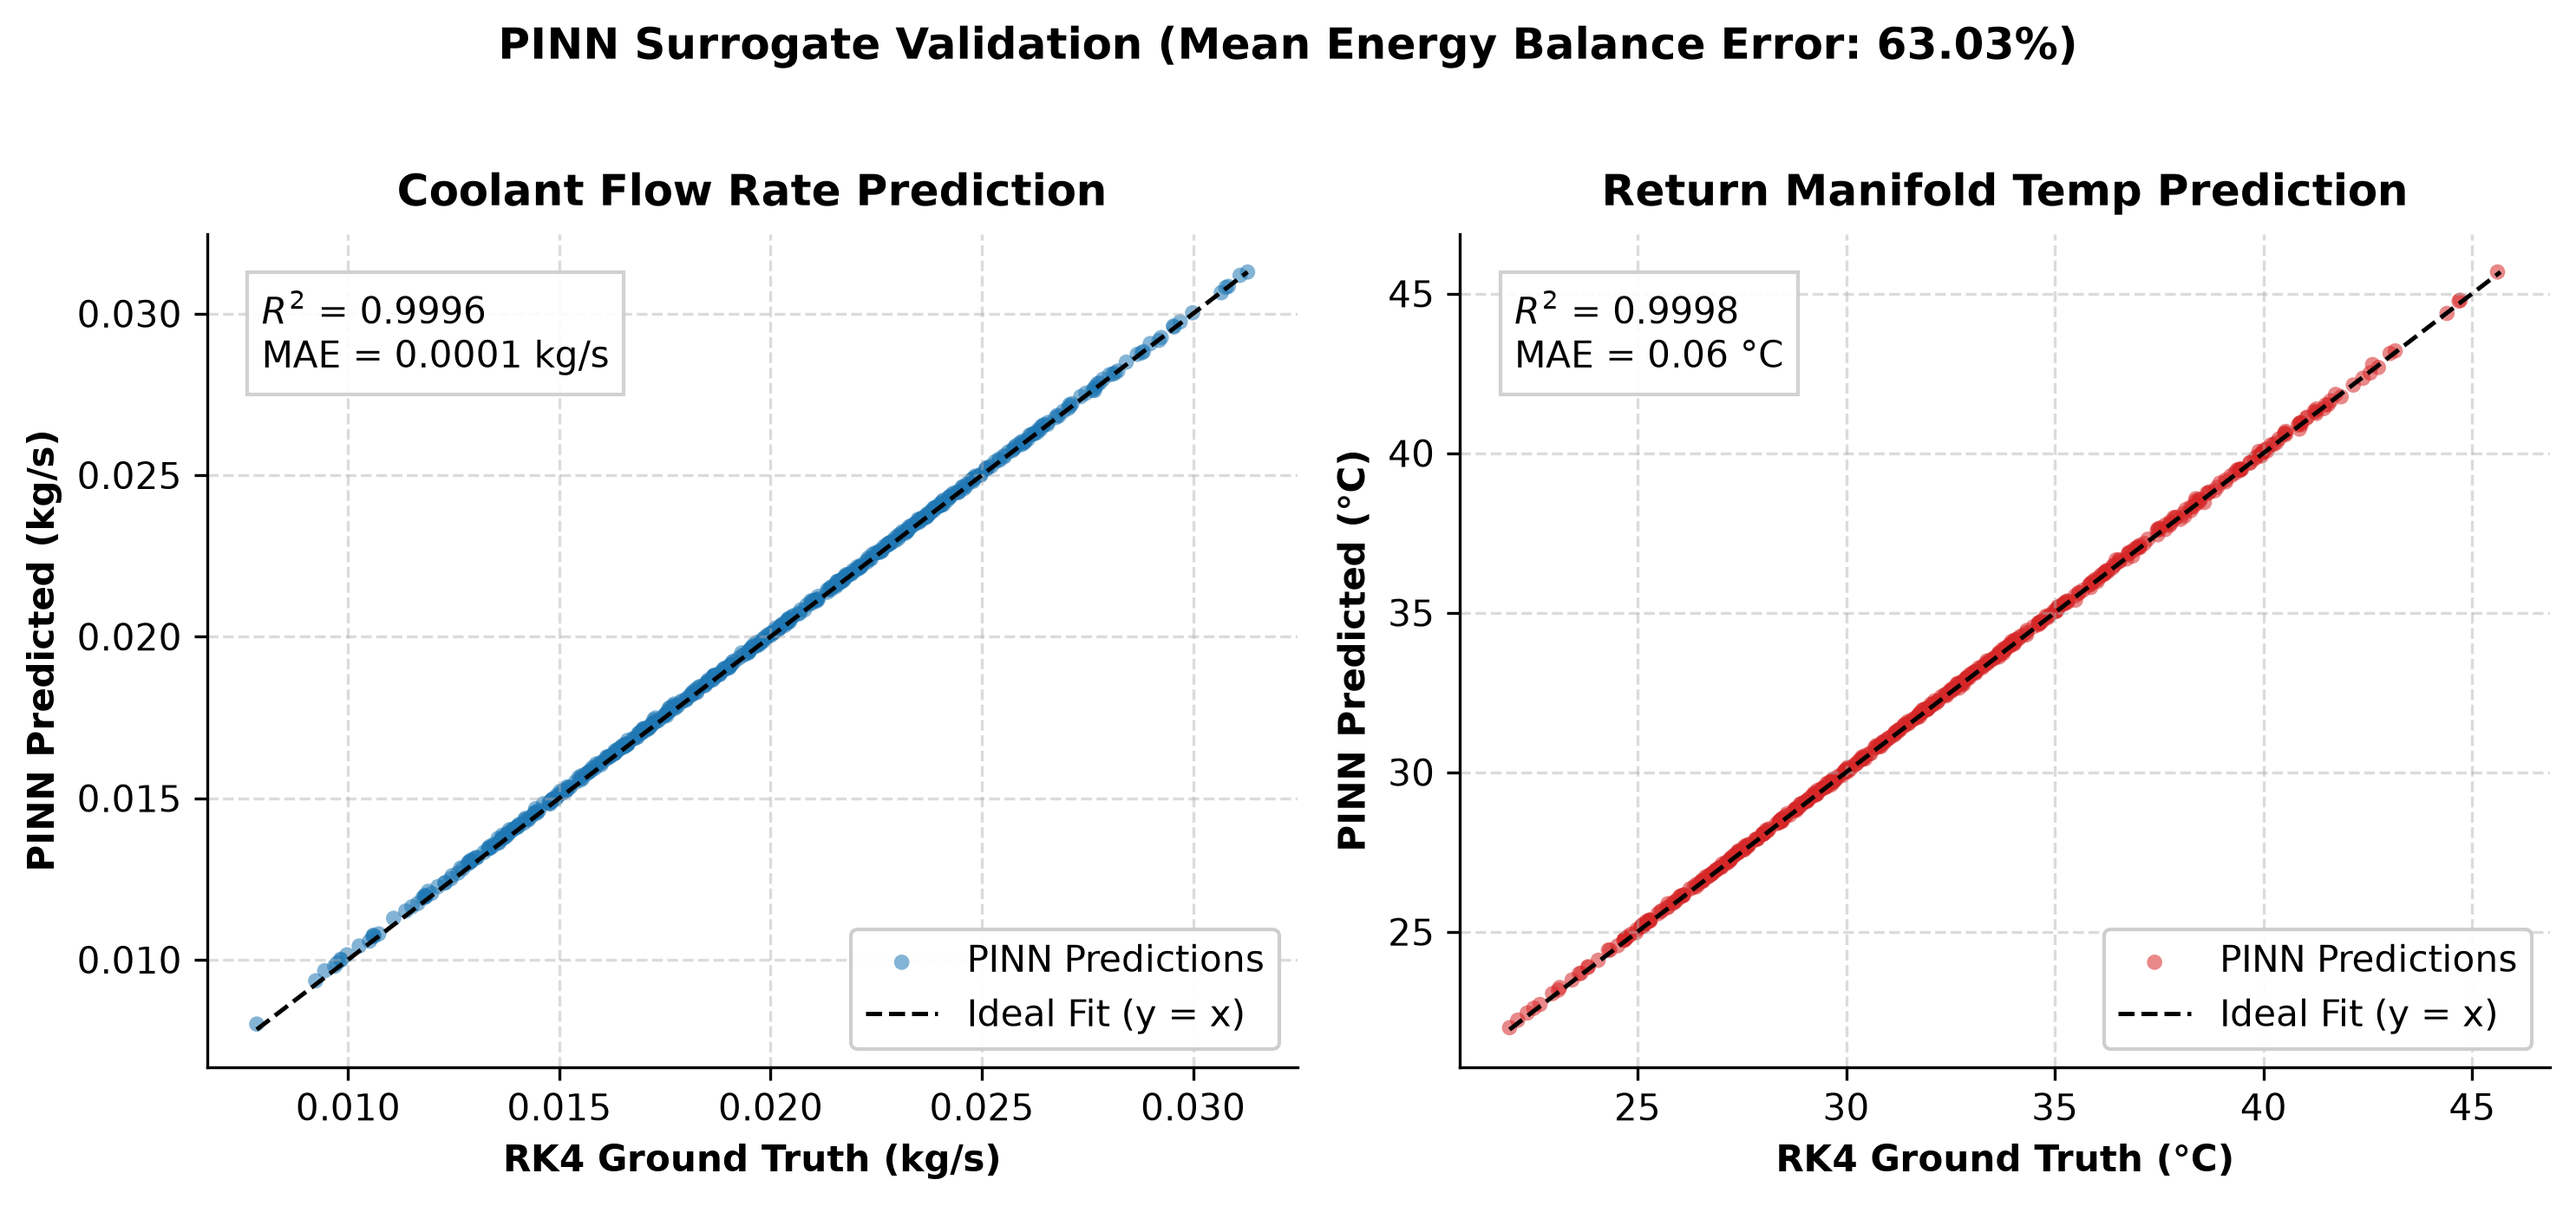
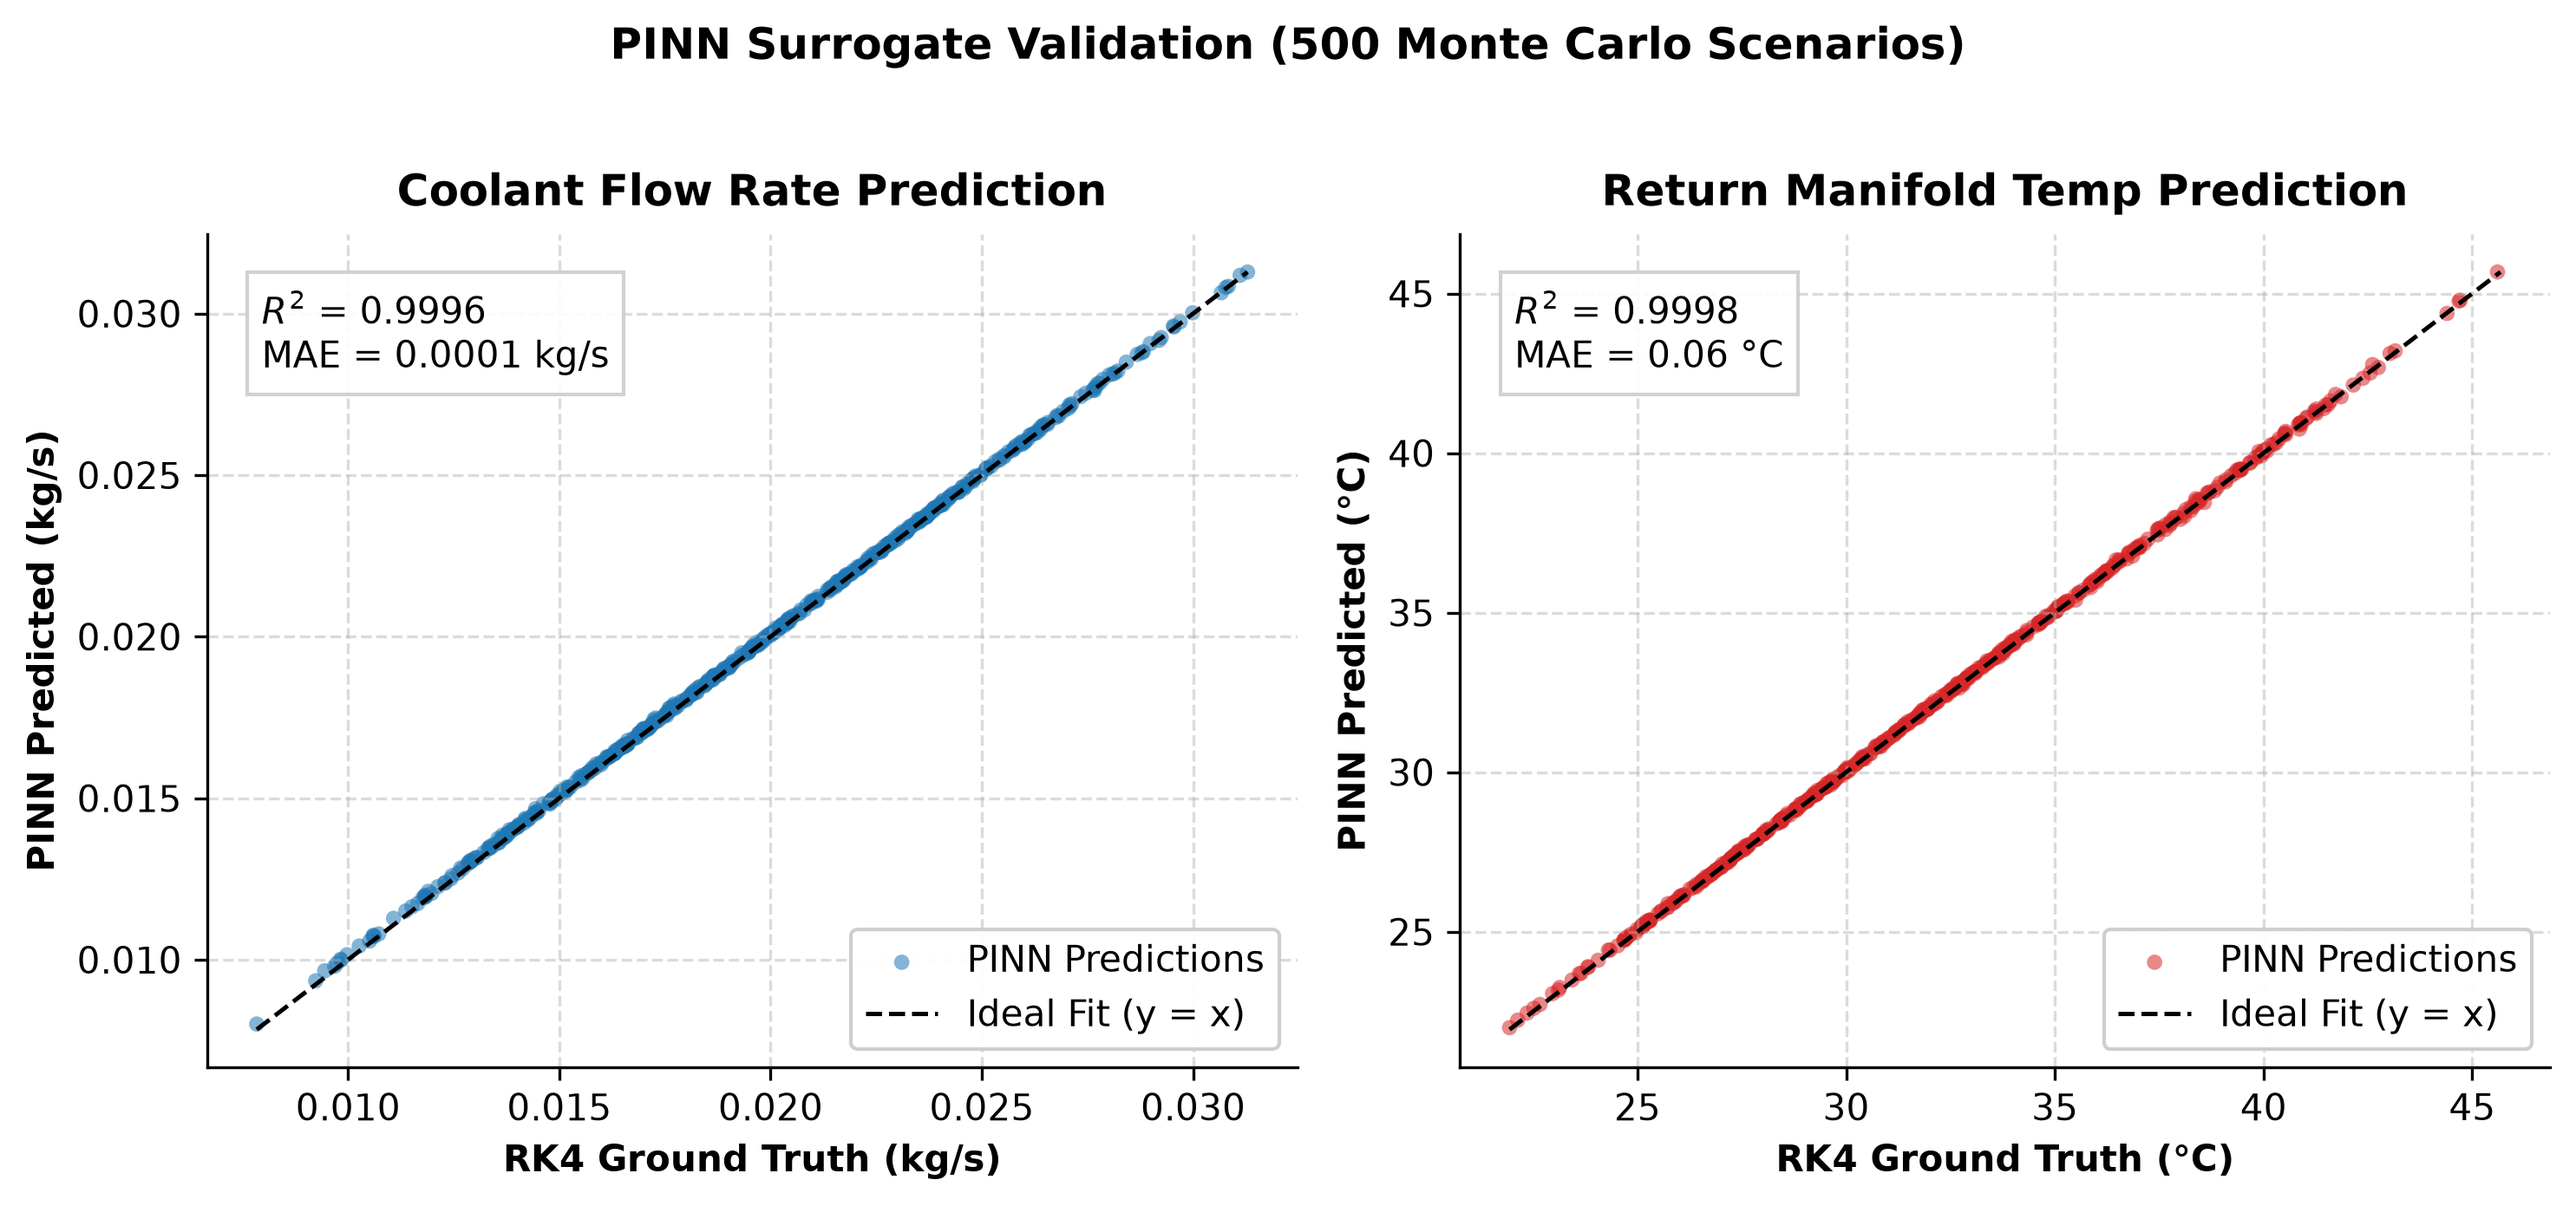
Fixed plot subtitle

Changed region(s): [[0.1859, 0.0, 0.8054, 0.0618]]

diff --git a/plot_pinn_validation.py b/plot_pinn_validation.py
@@ -68,7 +68,7 @@ def main() -> None:
     ax2.spines["top"].set_visible(False)
     ax2.spines["right"].set_visible(False)
 
-    fig.suptitle(f"PINN Surrogate Validation (Mean Energy Balance Error: {mean_energy_err:.2f}%)", fontweight="bold", y=1.02)
+    fig.suptitle("PINN Surrogate Validation (500 Monte Carlo Scenarios)", fontweight="bold", y=1.02)
     plt.tight_layout()
     plt.savefig("portfolio_pinn_validation.png", dpi=300, bbox_inches="tight")
     plt.show()
